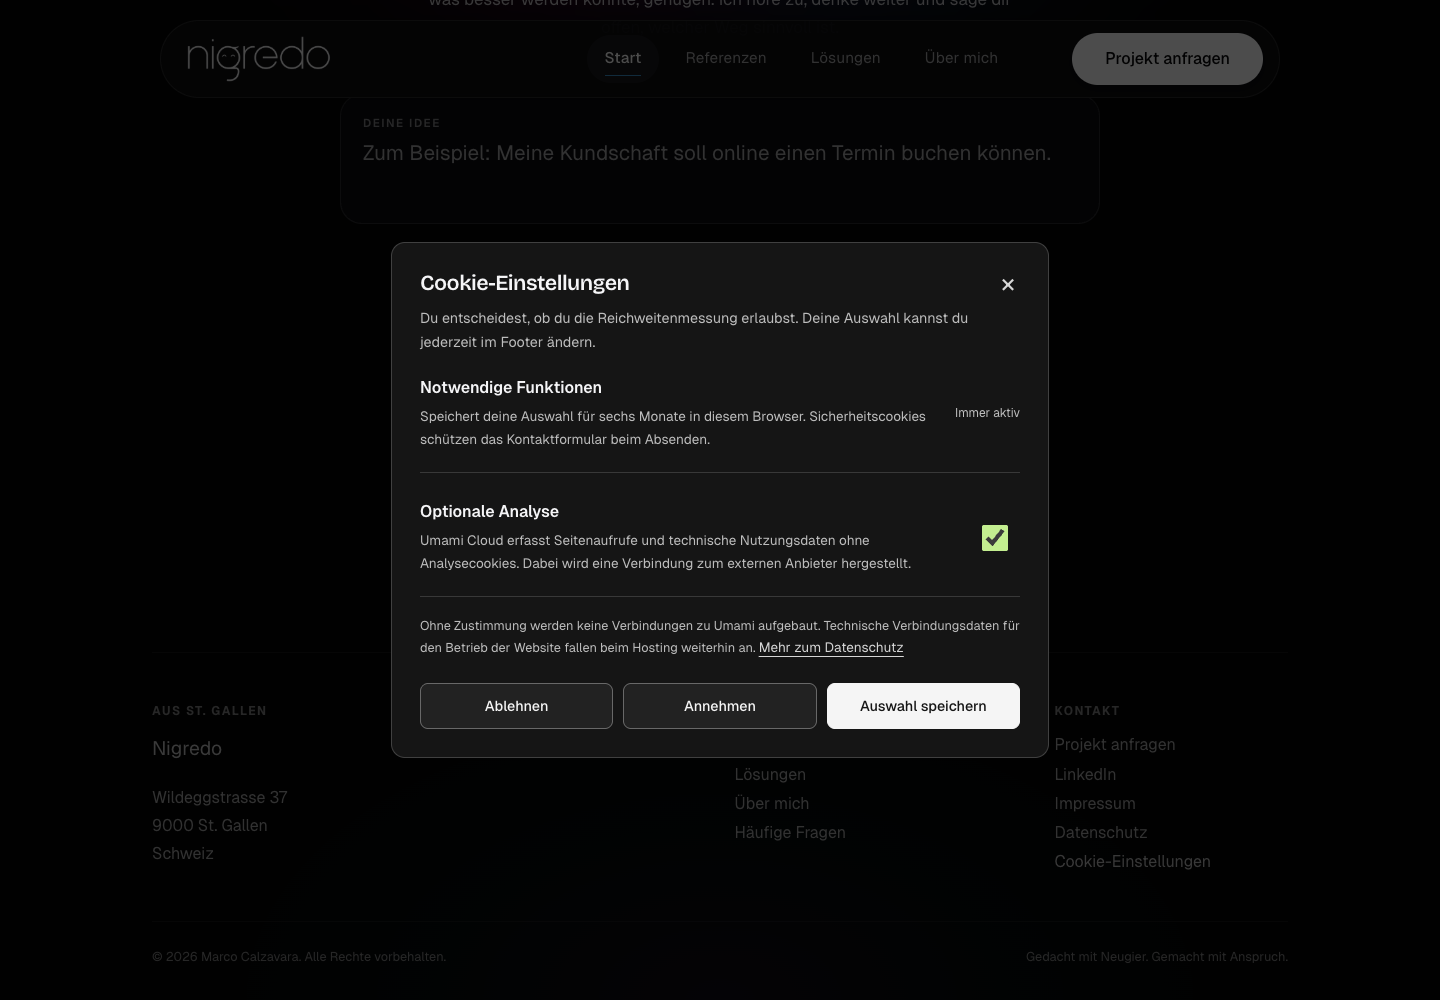
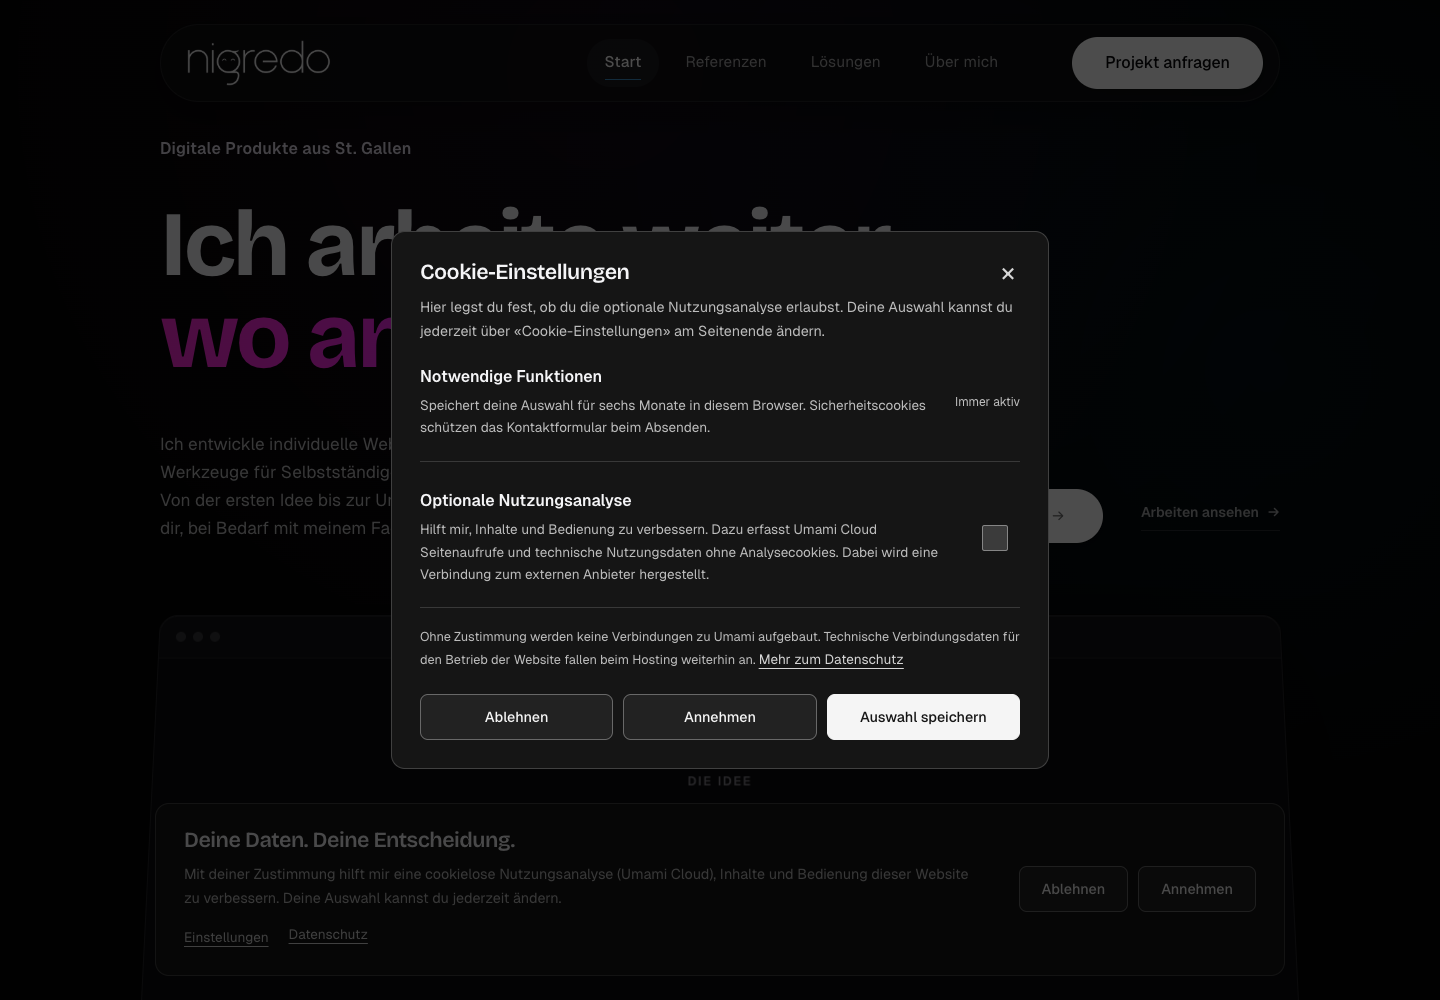
Cookie-Hinweise ruhig und zweckbezogen formulieren

diff --git a/docs/pruefbelege/cookie-consent/pruefung.md b/docs/pruefbelege/cookie-consent/pruefung.md
@@ -18,3 +18,13 @@ Produktionsbuild: 32 Seiten, Site-Validierung ohne Warnungen. Browserprüfung mi
 - Ohne JavaScript: keine externen Requests und keine funktionslosen Banner-Schaltflächen.
 
 Keine JavaScript-Laufzeitfehler in den geprüften Abläufen. Die Apache-Header werden lokal von Astro Preview nicht ausgeliefert; ihre Konfiguration wurde durch validate:site geprüft.
+
+## Redaktionelle Nachprüfung am 28. Oktober 2026
+
+Der Banner beschreibt nun die Verbesserung von Inhalten und Bedienung als Nutzen der optionalen Nutzungsanalyse. Anbieter, Analysezweck, Zustimmung und Änderungsmöglichkeit bleiben erkennbar. Der Dialog erläutert weiterhin Seitenaufrufe, technische Nutzungsdaten und die Verbindung zum externen Anbieter. Gestaltung und Consent-Steuerung wurden nicht verändert. Versionsentscheidung: kein weiterer Bump für diese reine Textanpassung; Version 1.19.0 bleibt bestehen.
+
+Zwei voneinander unabhängige Agenten haben den Stand lesend geprüft: einer mit Schwerpunkt Transparenz und Schweizer EDÖB-Hinweise, einer mit Schwerpunkt UX, Textkonsistenz und technische Einwilligungssperre. Beide haben die Änderung ohne blockierende Befunde freigegeben. Die Reviews sind keine Rechtsgarantie; Anbietervereinbarungen und Auslandtransfergrundlagen waren nicht Gegenstand der Prüfung.
+
+Erneute Browserprüfung nach der Textänderung: Erstbesuch ohne externe Requests, standardmässig ausgeschaltete Analyse, Speichern ohne Analyse, erhaltene Auswahl nach Neuladen, Öffnen und Schliessen der Einstellungen sowie Darstellung bei 320, 390, 768 und 1440 Pixeln erfolgreich. Keine JavaScript-Laufzeitfehler. Die Abbildungen wurden mit dem neuen Text aktualisiert. Die oben dokumentierte Prüfung mit dem echten Umami-Skript gilt für die unveränderte technische Steuerung.
+
+Referenzen: [EDÖB-Merkblatt vom 31. März 2026](https://www.edoeb.admin.ch/dam/de/sd-web/ByXs53ExpIEy/20260327%20Merkblatt%20Cookies_DE.pdf) und [EDÖB-Leitfaden vom 6. Oktober 2025](https://www.edoeb.admin.ch/dam/de/sd-web/brLL9rM3ny9d/Leitfaden%20des%20ED%C3%96B%20betreffend%20Datenbearbeitungen%20mittels%20Cookies%20und%20%C3%A4hnlichen%20Technologien%20V.%201.1%20vom%2006.10.2025_DE.pdf).
